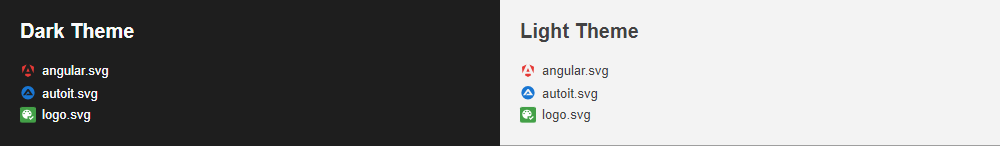
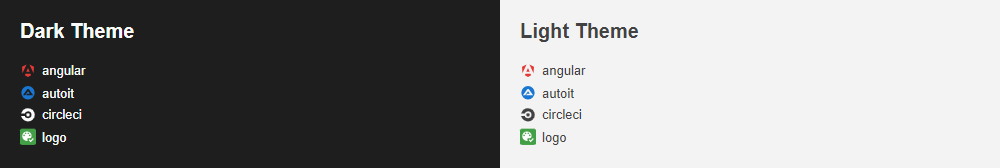
Minor improvements

diff --git a/src/core/generate-preview.ts b/src/core/generate-preview.ts
@@ -32,18 +32,21 @@ export const generatePreview = async (fileNames: string[]) => {
 
 const createTheme = (theme: 'light' | 'dark', fileNames: string[]): string => {
   const iconsTemplate = fileNames.reduce((acc, fileName) => {
-    const iconName = fileName.split('./')[1];
+    const iconName = fileName.split('./')[1].split('.svg')[0];
 
     if (
       (theme === 'dark' && iconName.includes('_light')) ||
       (theme === 'light' &&
-        fileNames.includes(`${iconName}_light.svg`) &&
-        fileName !== `${iconName}_light.svg`)
+        fileNames.includes(`./${iconName}_light.svg`) &&
+        fileName !== `./${iconName}_light.svg`)
     ) {
       return acc;
     }
 
-    return `${acc}<li><div class="icon"><img src="../../${fileName}" alt="${iconName}" /><span class="iconName">${iconName}</span></div></li>`;
+    return `${acc}<li><div class="icon"><img src="../../${fileName}" alt="${iconName}" /><span class="iconName">${iconName.replace(
+      '_light',
+      ''
+    )}</span></div></li>`;
   }, '');
 
   return `<div class="theme-container ${theme}"><h2>${titleCase(
